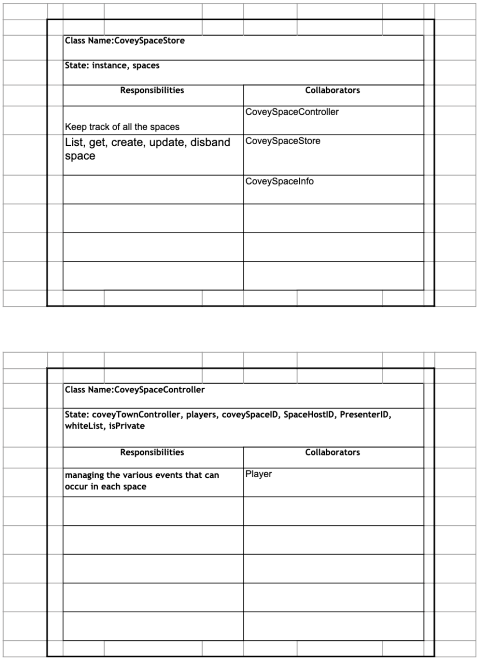
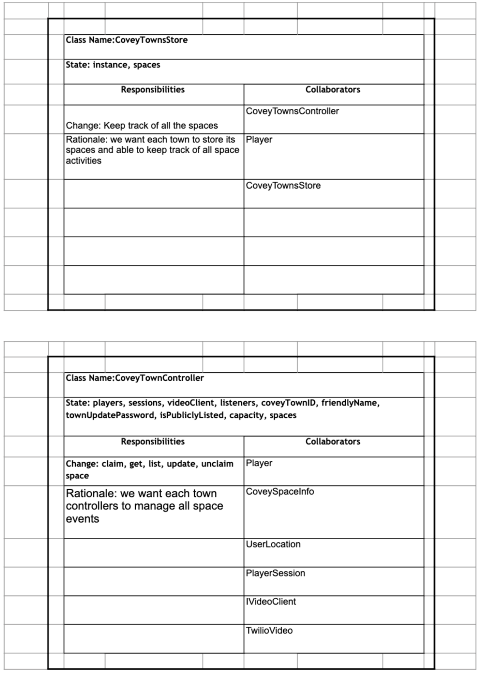
Final commit

Changed region(s): [[0.0, 0.5136, 1.0, 0.997], [0.0, 0.0, 1.0, 0.4834]]

diff --git a/frontend/src/components/VideoCall/VideoFrontend/components/MenuBar/Menu/SpaceControls.tsx b/frontend/src/components/VideoCall/VideoFrontend/components/MenuBar/Menu/SpaceControls.tsx
@@ -67,7 +67,7 @@ export default function SpaceControls () {
     const whitelistOfPlayers: Player[] = idListToPlayerList(whitelist);
 
     return (
-      <Select id='presenterSelector' placeholder={presenter? presenter : 'Select player'} defaultValue='' value={presenter} onChange={e => setPresenter(e.target.value)}>
+      <Select id='presenterSelector' placeholder='Select player' defaultValue='' value={presenter} onChange={e => setPresenter(e.target.value)}>
         {whitelistOfPlayers.map((player) => (
           <option value={player.id}> {`${player.userName}`} </option>
         ))}

diff --git a/services/roomService/src/lib/CoveyTownController.ts b/services/roomService/src/lib/CoveyTownController.ts
@@ -36,7 +36,7 @@ export default class CoveyTownController {
   }
 
   get occupancy(): number {
-    return this._listeners.length;
+    return this._players.length;
   }
 
   get friendlyName(): string {

diff --git a/DESIGN.md b/DESIGN.md
@@ -1,11 +1,12 @@
 # Covey Space Designs
 
-## Description of archetecture and changes
+## Description of arcihetecture and changes
 
 ### Changes:
 
 Some of the major changes to Covey.Town include, Adding spaces files, changes to the map to add hitboxes for a space, and using towns.ts to act as a router for the covey.spaces
 The spaces files that we added include:
+
 - CoveySpaceController
 - CoveySpaceRequestHandlers
 - SpacesServiceClient
@@ -13,22 +14,22 @@ The spaces files that we added include:
 
 In the map we just generally added space functionality within and a hitbox that was used to mark a covey.space and to connect where the space is on the map with its location in the backend
 
-We also added general routing commands to towns.ts after the comment "// This is where the space routing starts". We added functionality for Posting a space Id, getting all spaces, getting a specific space, putting a player in a space, removing a player from a space (delete), and updating a space (patching). The updating a space functionality is also used to 
-- claim a space
-- disband a space
-- change hosts
-- change presenters
+We also added general routing commands to towns.ts after the comment `// This is where the space routing starts`. We added functionality for Posting a space Id, getting all spaces, getting a specific space, putting a player in a space, removing a player from a space (delete), and updating a space (patching). The updating a space functionality is also used to
 
-We also changed the CoveyTownController to have a store of the spaces within the town:  #TODO: more depth
+- change whitelist
+- change presenter
 
-All other files dealing with the town itself remained the same.
+We also changed the CoveyTownController to have act as a spaces store of the spaces within the town.
 
+All other files dealing with the town itself remained the same, except an additional listener in CoveyTownRequestHandlers.
 
 ### Architecture
-Essentially uses the same architecture as the orriginal code. The architecture uses Rest, and web sockets that we edited to work with spaces as seen above. More information in UML Diagram and CRC Cards Below
+
+Essentially uses the same architecture as the original code. The architecture uses REST, and web sockets that we edited to work with spaces as seen above. More information in UML Diagram and CRC Cards Below
 
 ## UML Diagram And CRC Cards
-### CRC Cards 
+
+### CRC Cards
 
 working on creating CRC cards/UML diagrams using google doc.
 access here:
@@ -41,6 +42,6 @@ https://docs.google.com/document/d/16KcxJZgKEppeUxgmWtYGLQIQG7ojapIN_-aylWLFzrY/
 ![card4](docs/cards/card4.png)
 ![card5](docs/cards/card5.png)
 
-### UML Diagram 
+### UML Diagram
 
-![UML](docs/cards/UML.jpg)
+![UML](docs/cards/UML.png)
